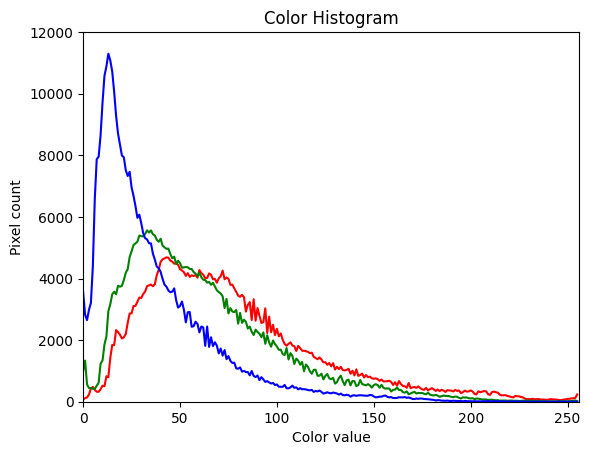
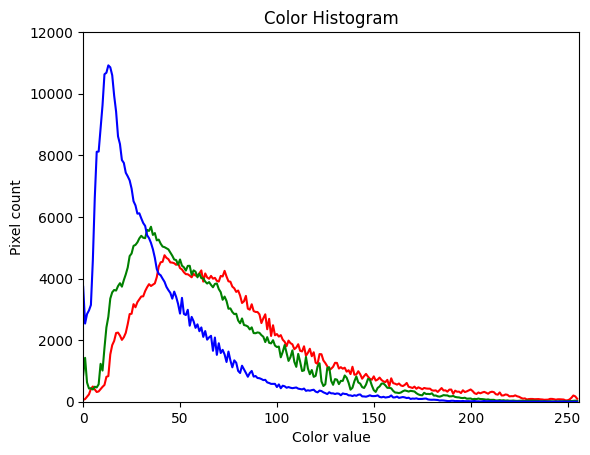
checkpoint - omp

diff --git a/main.cpp b/main.cpp
@@ -34,13 +34,18 @@ struct Settings
 	ImageData targetImage;
 	float weight = 1.0f;
 
-	std::vector<float> sourceDelta;
+	std::vector<float> result;
 };
 
-std::mt19937 GetRNG()
+inline float Lerp(float A, float B, float t)
+{
+	return A * (1.0f - t) + B * t;
+}
+
+std::mt19937 GetRNG(int index)
 {
 	#if DETERMINISTIC()
-	std::mt19937 ret;
+	std::mt19937 ret(index);
 	#else
 	std::random_device rd;
 	std::mt19937 ret(rd());
@@ -75,34 +80,55 @@ bool SaveFloatImage(const ImageData& imageData, const char* fileName)
 
 void SlicedOptimalTransport(Settings& settings)
 {
-	printf("\n%s (weight %0.2f)\n\n", settings.targetImageFileName, settings.weight);
+	printf("\n%s\n\n", settings.targetImageFileName);
 
 	const uint32_t c_numPixels = settings.srcimage.width * settings.srcimage.height;
 
-	std::mt19937 rng = GetRNG();
-	std::normal_distribution<float> normalDist(0.0f, 1.0f);
+	std::vector<float>& current = settings.result;
+	current = settings.srcimage.pixels;
 
-	ImageData current = settings.srcimage;
-
-	std::vector<uint32_t> currentSorted(c_numPixels);
-	std::vector<uint32_t> targetSorted(c_numPixels);
-	for (uint32_t i = 0; i < c_numPixels; ++i)
+	// Per batch data
+	// Each batch has it's own data so the batches can be parallelized
+	struct BatchData
 	{
-		currentSorted[i] = i;
-		targetSorted[i] = i;
-	}
+		BatchData(uint32_t numPixels)
+		{
+			currentSorted.resize(numPixels);
+			targetSorted.resize(numPixels);
+			for (uint32_t i = 0; i < numPixels; ++i)
+			{
+				currentSorted[i] = i;
+				targetSorted[i] = i;
+			}
 
-	std::vector<float> currentProjections(c_numPixels);
-	std::vector<float> targetProjections(c_numPixels);
+			currentProjections.resize(numPixels);
+			targetProjections.resize(numPixels);
 
-	std::vector<float> batchDirections(c_numPixels * 3);
+			batchDirections.resize(numPixels * 3);
+		}
 
+		std::vector<uint32_t> currentSorted;
+		std::vector<uint32_t> targetSorted;
+
+		std::vector<float> currentProjections;
+		std::vector<float> targetProjections;
+
+		std::vector<float> batchDirections;
+	};
+	std::vector<BatchData> allBatchData(c_batchSize, BatchData(c_numPixels));
+
+	// For each iteration
 	for (int iteration = 0; iteration < c_numIterations; ++iteration)
 	{
-		std::fill(batchDirections.begin(), batchDirections.end(), 0.0f);
-
+		// Do the batches in parallel
+		#pragma omp parallel for
 		for (int batchIndex = 0; batchIndex < c_batchSize; ++batchIndex)
 		{
+			BatchData& batchData = allBatchData[batchIndex];
+
+			std::mt19937 rng = GetRNG(iteration * c_batchSize + batchIndex);
+			std::normal_distribution<float> normalDist(0.0f, 1.0f);
+
 			// Make a uniform random unit vector by generating 3 normal distributed values and normalizing the result.
 			Vec3 direction;
 			direction[0] = normalDist(rng);
@@ -116,40 +142,50 @@ void SlicedOptimalTransport(Settings& settings)
 			// project current and target
 			for (size_t i = 0; i < c_numPixels; ++i)
 			{
-				currentProjections[i] =
-					direction[0] * current.pixels[i * 3 + 0] +
-					direction[1] * current.pixels[i * 3 + 1] +
-					direction[2] * current.pixels[i * 3 + 2];
+				batchData.currentProjections[i] =
+					direction[0] * current[i * 3 + 0] +
+					direction[1] * current[i * 3 + 1] +
+					direction[2] * current[i * 3 + 2];
 
-				targetProjections[i] =
+				batchData.targetProjections[i] =
 					direction[0] * settings.targetImage.pixels[i * 3 + 0] +
 					direction[1] * settings.targetImage.pixels[i * 3 + 1] +
 					direction[2] * settings.targetImage.pixels[i * 3 + 2];
 			}
 
-			// sort
-			std::sort(currentSorted.begin(), currentSorted.end(),
+			// sort current and target
+			std::sort(batchData.currentSorted.begin(), batchData.currentSorted.end(),
 				[&] (uint32_t a, uint32_t b)
 				{
-					return currentProjections[a] < currentProjections[b];
+					return batchData.currentProjections[a] < batchData.currentProjections[b];
 				}
 			);
 
-			std::sort(targetSorted.begin(), targetSorted.end(),
+			std::sort(batchData.targetSorted.begin(), batchData.targetSorted.end(),
 				[&](uint32_t a, uint32_t b)
 				{
-					return targetProjections[a] < targetProjections[b];
+					return batchData.targetProjections[a] < batchData.targetProjections[b];
 				}
 			);
 
 			// update batchDirections
 			for (size_t i = 0; i < c_numPixels; ++i)
 			{
-				float projDiff = targetProjections[targetSorted[i]] - currentProjections[currentSorted[i]];
+				float projDiff = batchData.targetProjections[batchData.targetSorted[i]] - batchData.currentProjections[batchData.currentSorted[i]];
 
-				batchDirections[currentSorted[i] * 3 + 0] += direction[0] * projDiff;
-				batchDirections[currentSorted[i] * 3 + 1] += direction[1] * projDiff;
-				batchDirections[currentSorted[i] * 3 + 2] += direction[2] * projDiff;
+				batchData.batchDirections[batchData.currentSorted[i] * 3 + 0] = direction[0] * projDiff;
+				batchData.batchDirections[batchData.currentSorted[i] * 3 + 1] = direction[1] * projDiff;
+				batchData.batchDirections[batchData.currentSorted[i] * 3 + 2] = direction[2] * projDiff;
+			}
+		}
+
+		// average all batch directions into batchDirections[0]
+		{
+			for (int batchIndex = 1; batchIndex < c_batchSize; ++batchIndex)
+			{
+				float alpha = 1.0f / float(batchIndex + 1);
+				for (size_t i = 0; i < c_numPixels * 3; ++i)
+					allBatchData[0].batchDirections[i] = Lerp(allBatchData[0].batchDirections[i], allBatchData[batchIndex].batchDirections[i], alpha);
 			}
 		}
 
@@ -158,25 +194,20 @@ void SlicedOptimalTransport(Settings& settings)
 		for (size_t i = 0; i < c_numPixels; ++i)
 		{
 			float adjust[3] = {
-				batchDirections[i * 3 + 0] / float(c_batchSize),
-				batchDirections[i * 3 + 1] / float(c_batchSize),
-				batchDirections[i * 3 + 2] / float(c_batchSize)
+				allBatchData[0].batchDirections[i * 3 + 0],
+				allBatchData[0].batchDirections[i * 3 + 1],
+				allBatchData[0].batchDirections[i * 3 + 2]
 			};
 
-			current.pixels[i * 3 + 0] += adjust[0];
-			current.pixels[i * 3 + 1] += adjust[1];
-			current.pixels[i * 3 + 2] += adjust[2];
+			current[i * 3 + 0] += adjust[0];
+			current[i * 3 + 1] += adjust[1];
+			current[i * 3 + 2] += adjust[2];
 
 			totalDistance += std::sqrt(adjust[0] * adjust[0] + adjust[1] * adjust[1] + adjust[2] * adjust[2]);
 		}
 
-		printf("[%i] %f\n", iteration, totalDistance);
+		printf("[%i] %f\n", iteration, totalDistance / float(c_numPixels));
 	}
-
-	// Calculate deltas
-	settings.sourceDelta.resize(c_numPixels * 3);
-	for (size_t i = 0; i < c_numPixels * 3; ++i)
-		settings.sourceDelta[i] = current.pixels[i] - settings.srcimage.pixels[i];
 }
 
 void InterpolateColorHistogram(Settings& settings, const char* outputFileNameBase)
@@ -208,7 +239,7 @@ void InterpolateColorHistogram(Settings& settings, const char* outputFileNameBas
 	// Do interpolation
 	ImageData output = settings.srcimage;
 	for (size_t valueIndex = 0; valueIndex < output.width * output.height * 3; ++valueIndex)
-		output.pixels[valueIndex] += settings.sourceDelta[valueIndex] * settings.weight;
+		output.pixels[valueIndex] = Lerp(settings.srcimage.pixels[valueIndex], settings.result[valueIndex], settings.weight);
 
 	// Save output image
 	SaveFloatImage(output, outputFileName);
@@ -218,18 +249,11 @@ int main(int argc, char** argv)
 {
 	_mkdir("out");
 
-	system("python MakeHistogram.py images/florida.png out/florida.histogram.png 12000");
-	system("python MakeHistogram.py images/bigcat.png out/bigcat.histogram.png 12000");
-	system("python MakeHistogram.py images/dunes.png out/dunes.histogram.png 12000");
-	system("python MakeHistogram.py images/turtle.png out/turtle.histogram.png 12000");
-
 	{
 		Settings settings;
 		settings.srcImageFileName = "images/florida.png";
 		settings.targetImageFileName = "images/dunes.png";
 		InterpolateColorHistogram(settings, "out/florida-dunes");
-
-		system("python MakeHistogram.py out/florida-dunes.png out/florida-dunes.histogram.png 12000");
 	}
 
 	{
@@ -237,8 +261,6 @@ int main(int argc, char** argv)
 		settings.srcImageFileName = "images/florida.png";
 		settings.targetImageFileName = "images/turtle.png";
 		InterpolateColorHistogram(settings, "out/florida-turtle");
-
-		system("python MakeHistogram.py out/florida-turtle.png out/florida-turtle.histogram.png 12000");
 	}
 
 	{
@@ -246,8 +268,6 @@ int main(int argc, char** argv)
 		settings.srcImageFileName = "images/florida.png";
 		settings.targetImageFileName = "images/bigcat.png";
 		InterpolateColorHistogram(settings, "out/florida-bigcat");
-
-		system("python MakeHistogram.py out/florida-bigcat.png out/florida-bigcat.histogram.png 12000");
 	}
 
 	return 0;
@@ -255,12 +275,14 @@ int main(int argc, char** argv)
 
 /*
 TODO:
+* get rid of settings struct, make this more ad hoc
 * make a csv of total movement over time and graph it to see if it's enough steps
 * output how long it took. not super important though
 * clean up code?
 * make an interpolation example with 2 images
-* move python calls into a batch file, instead of running python from c++
+* also with 3.
 ! mention in the post that you could do barycentric interpolation with multiple images. and could even go "outside of the simplex" with those coordinates to move away from histograms etc.
 ! mention that the sorting is the slowest part, per the profiler. same as the other post. could multithread it but :shrug:
 ! say how long it took, and what resolution image
+* mention how you can do all the batches in parallel
 */
